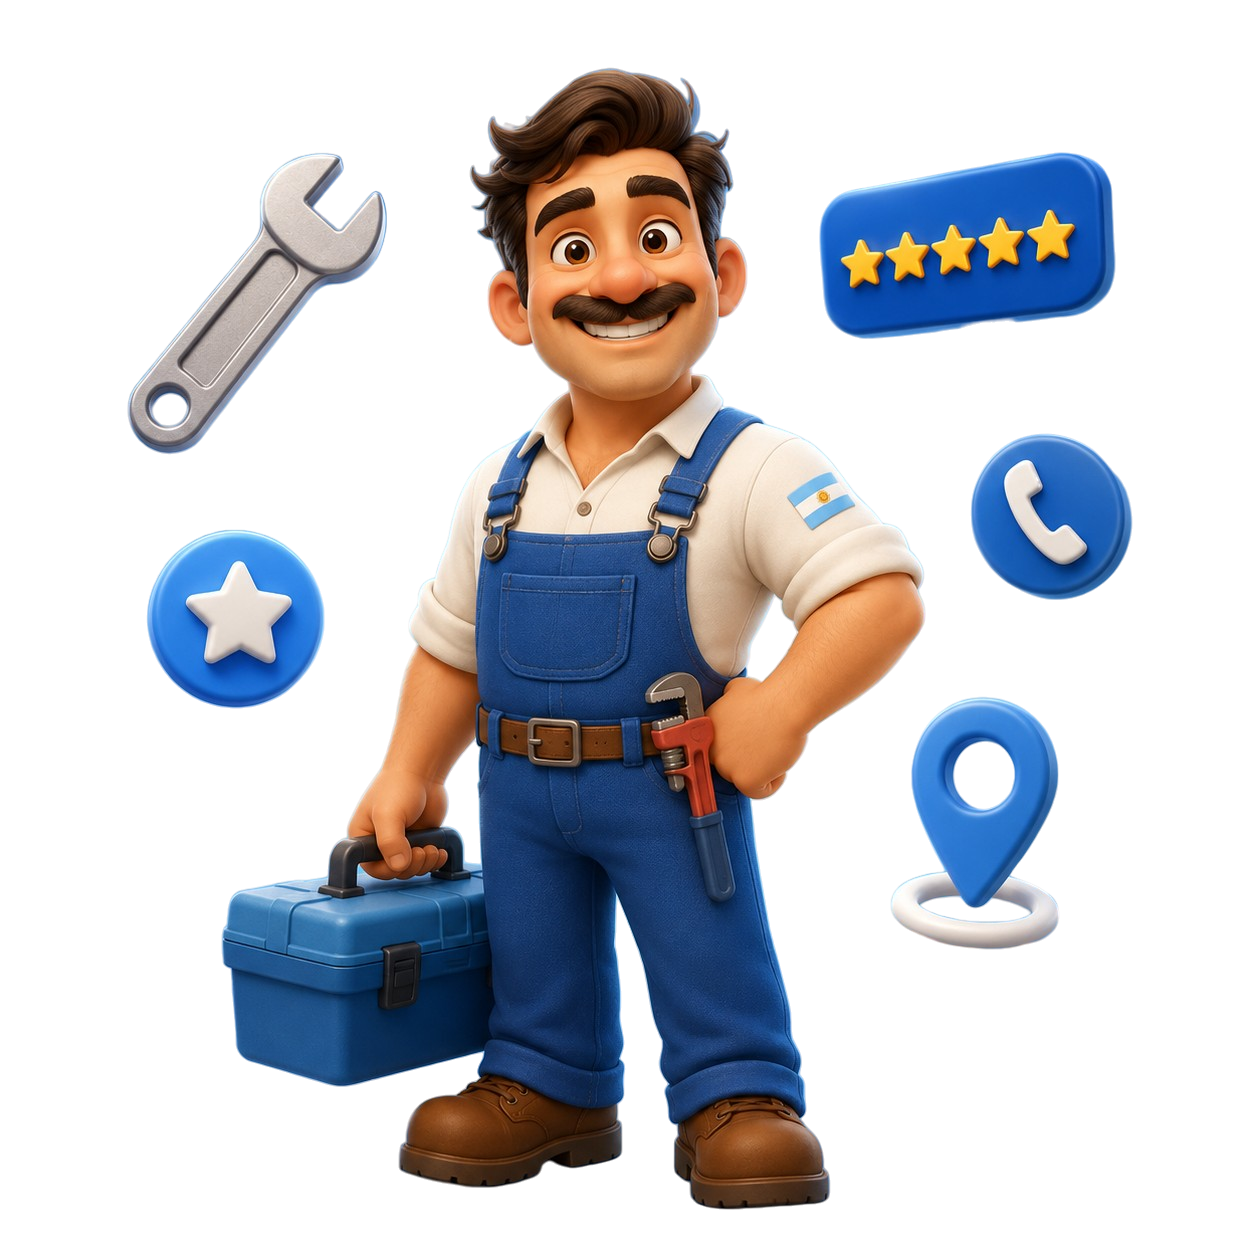
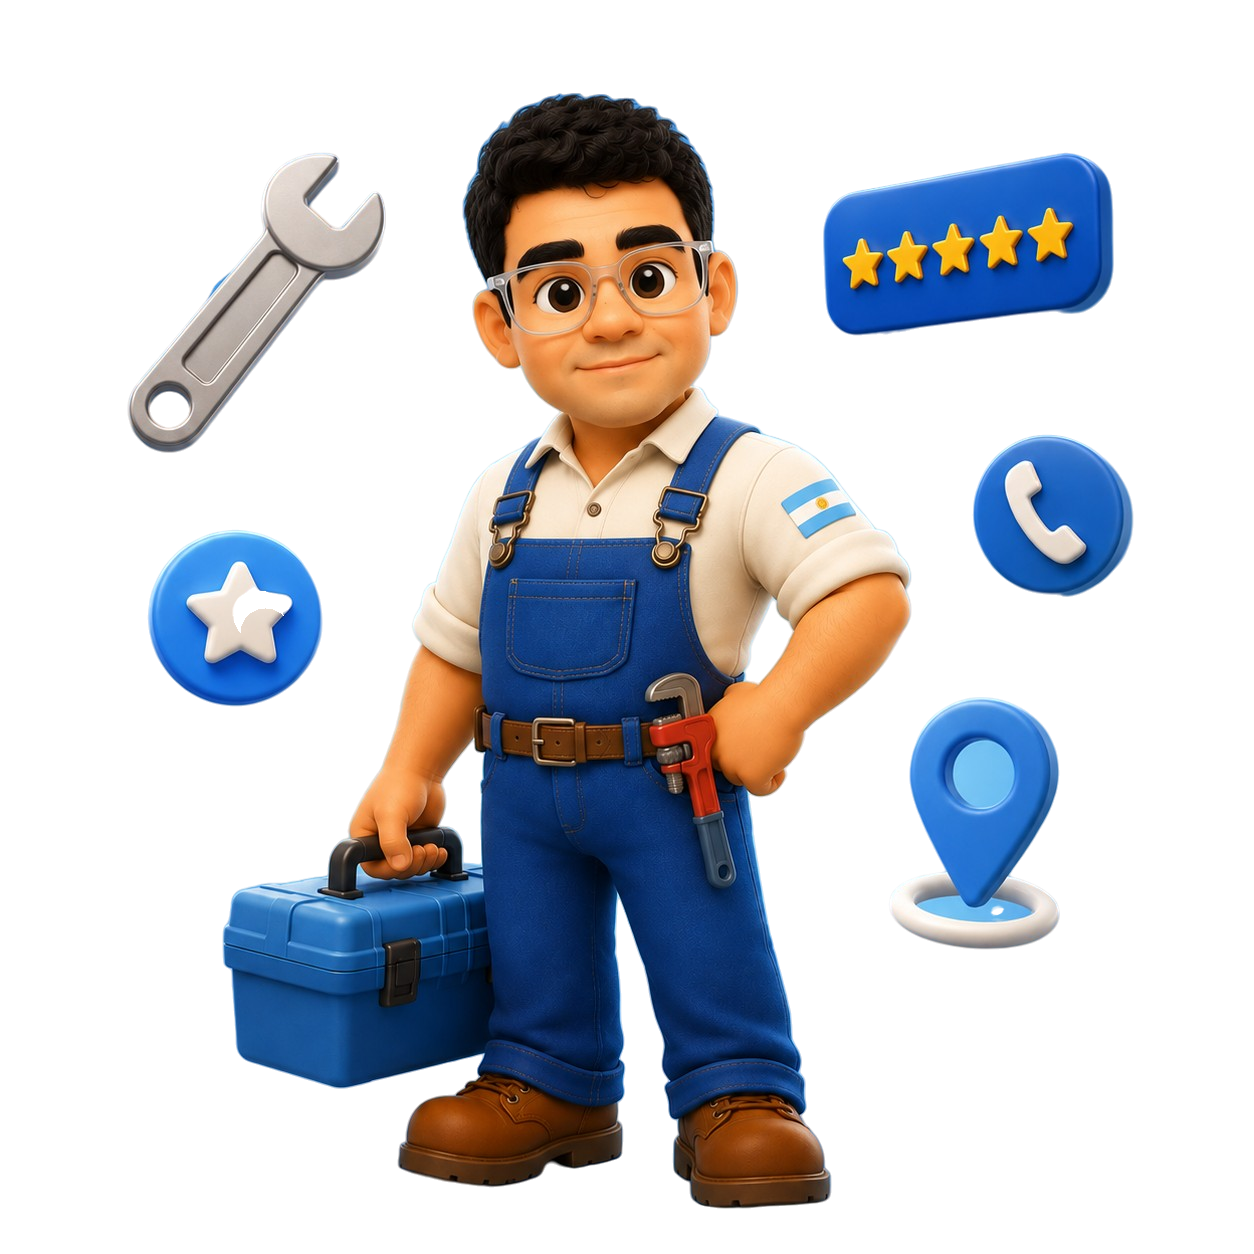
Fix Zod v4 en CreateReportSchema + actualiza imagen hero
reason: z.enum(REPORT_REASONS) usaba indices del array como valores
en Zod v4. Reemplazado con .refine() + .includes() siguiendo el mismo
patron del fix de ConfirmWorkFromContactSchema.

diff --git a/src/modules/reports/types.ts b/src/modules/reports/types.ts
@@ -11,7 +11,13 @@ export const REPORT_REASONS = [
 export const CreateReportSchema = z.object({
   reportedUserId: z.string().uuid(),
   reportedProfessionalId: z.string().uuid().optional(),
-  reason: z.enum(REPORT_REASONS),
+  reason: z
+    .string()
+    .refine(
+      (v): v is (typeof REPORT_REASONS)[number] =>
+        (REPORT_REASONS as readonly string[]).includes(v),
+      { message: "Razón inválida" },
+    ),
   description: z.string().trim().max(1000, "Máximo 1000 caracteres").optional(),
 });
 